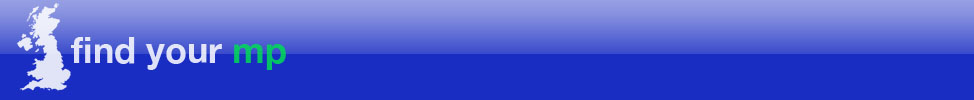
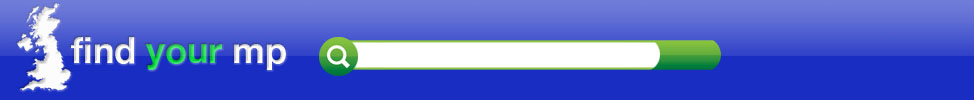
Update search form, tarted up css
git-svn-id: svn://localhost/gov@58 176c8346-8fd8-4890-8959-aae39819f5aa

diff --git a/public/css/__application-version-number__/common.css b/public/css/__application-version-number__/common.css
@@ -19,7 +19,7 @@ body{background:#eaeaea}
 
 
 /* Mast Head */
-#mast_head {width:974px;height:100px;background:#192dc2 url('./f/banner.jpg') no-repeat;position:relative;border-bottom:1px solid #fff;}
+#mast_head {width:974px;background:#192dc2 url('./f/banner.jpg') no-repeat;position:relative;border-bottom:1px solid #fff;}
 #mast_head h1 {position:absolute;left:0px;top:0px;font-size:2.5em;height:100px;line-height:100px;width:290px;}
 #mast_head h1 a span {position:absolute;top:-1000px;}
 #mast_head h1 a,
@@ -27,22 +27,24 @@ body{background:#eaeaea}
 #mast_head h1 a:focus {color:#000;text-decoration:none;display:block;width:100%;height:100px;position:relative;z-index:100;}
 
 /* Search Form */
-#search_form {position:relative;height:80px;top:15px;}
+#search_form {position:relative;height:100px;top:16px;left:59px;}
+#search_form.errors {height:120px;}
 
 #search_form h2 {font-size:1.4em;width:280px;position:absolute;left:10px;top:-3px;line-height:80px;height:80px;text-align:right;}
 #searchFieldLabel {position:absolute;top:-1000px;}
 
-#searchField {position:absolute;left:300px;top:25px;width:300px;padding:2px 1px;border:1px solid #000;}
-#search_form .info,
-#search_form .error {font-weight:bold;color:#e4e6f8;position:absolute;left:300px;top:50px;line-height:1.2em;text-align:center;}
+#searchField {position:absolute;left:310px;top:31px;width:278px;font-size:1.4em;padding:0 1px;border:none;}
+#search_form .info {font-weight:bold;color:#e4e6f8;position:absolute;left:300px;top:55px;line-height:1.2em;text-align:center;}
 
-#search_form .error {color:red;text-align:left;padding:3px;background:#fff;}
+#search_form .error {position:absolute;left:-59px;bottom:8px;height:30px;color:#fff;text-align:left;background:red url('./f/search_error.jpg') no-repeat;border-top:1px solid #fff;border-bottom:1px solid #fff;width:924px;padding-left:50px;line-height:30px;font-weight:bold;font-size:1.2em;}
 
-#search {position:absolute;left:625px;top:25px;}
+#search {padding-left:3px;position:absolute;left:593px;top:24px;width:68px;height:30px;line-height:30px;font-size:1.4em;background:#192dc2 url('./f/search_button.jpg') no-repeat;color:#fff;border:none;cursor:pointer;}
+#search:hover,
+#search:focus {background-image:url('./f/search_button_hover.jpg');}
 
 /* Content */
-#content_wrapper {background-color:#DBDBDB;;min-height:600px;padding:0 10px;}
-#content {background:#fff;padding:10px;position:relative;top:10px;margin:0;}
+#content_wrapper {background-color:#DBDBDB;min-height:600px;padding:10px;}
+#content {background:#fff;padding:10px;margin:0;}
 #content h2 {font-size:1.8em;border-bottom:1px solid #999;padding:0 0 10px 0;margin:0 0 10px 0;}
 
 /* Search results */

diff --git a/library/Gov/Search/Form.php b/library/Gov/Search/Form.php
@@ -16,7 +16,7 @@ class Gov_Search_Form extends Zend_Form {
     												'allowEmpty' => false,
 													'required' => true,
     											)
-    										)->setErrorMessages(array('Please enter a constituency name or full UK postcode'));    										
+    										)->setErrorMessages(array('Search error: Please enter a constituency name or full UK postcode'));    										
     	
 		$form->addElement($searchField);
     	$form->addElement('submit', 'Search', array('order' => 100));
